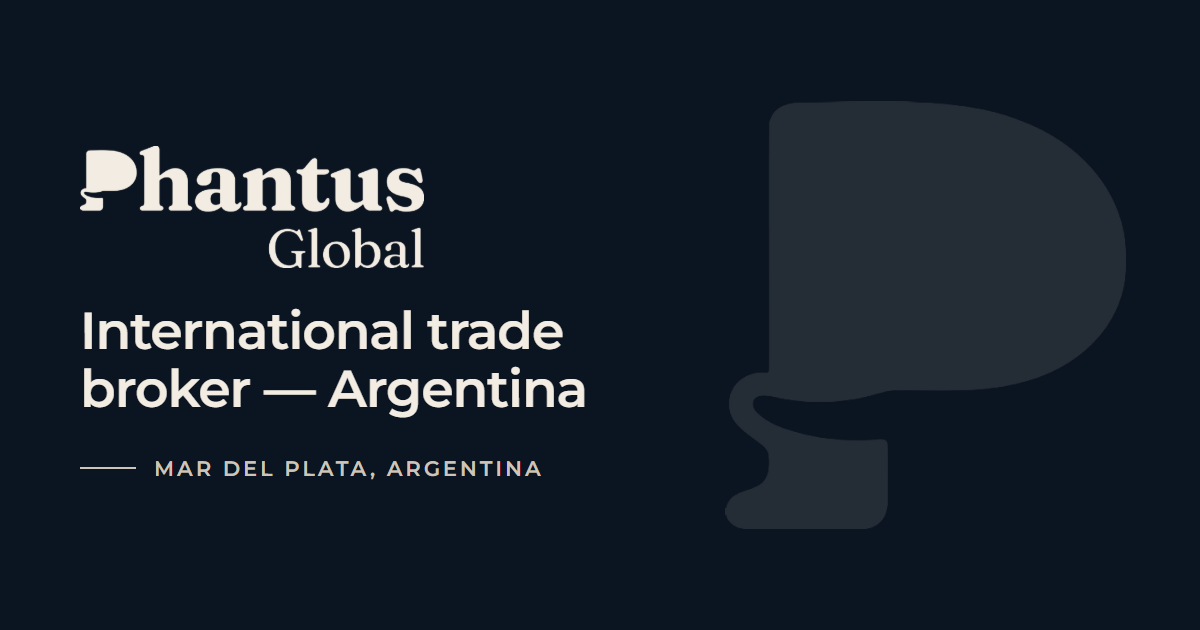
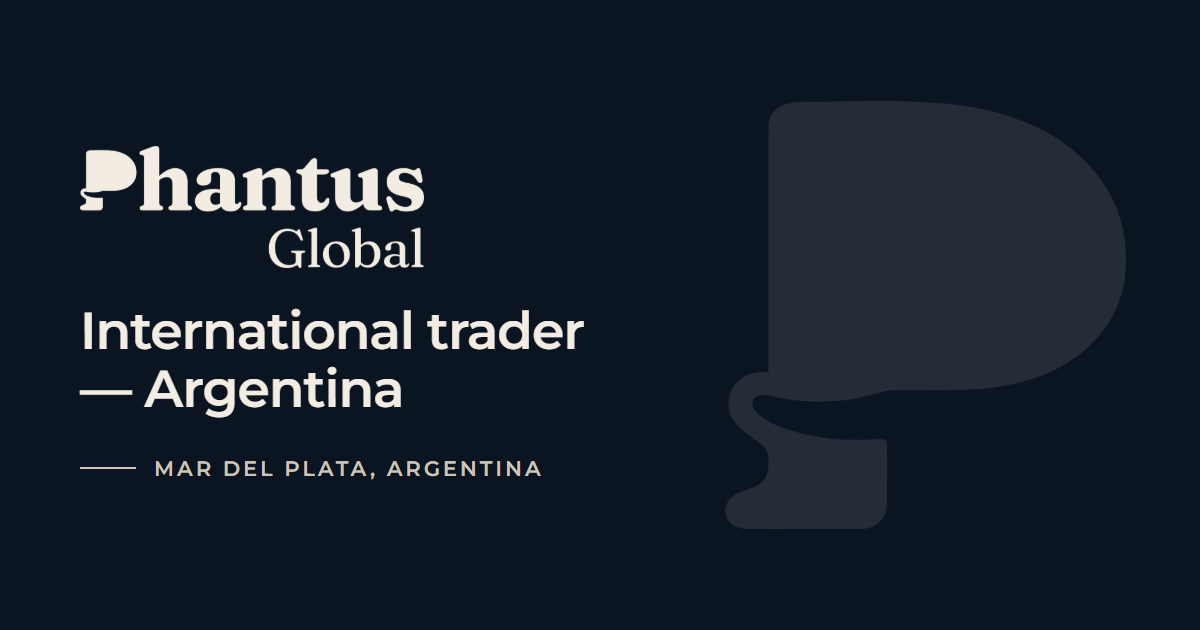
El sitio pasa de bróker a trader
Phantus compra y revende, y el pago pasa por la empresa. Se reescribe
todo el copy que afirmaba lo contrario: "no tomamos posesión", "el
dinero no pasa por nuestras manos", "el pago va directo entre las
partes" y la comisión. "Cómo ganamos" pasa a "Cómo operamos" y no dice
cómo gana. Imagen social regenerada con el rótulo nuevo.

Changed region(s): [[0.0617, 0.573, 0.4933, 0.6635], [0.4625, 0.5127, 0.4933, 0.5429], [0.3083, 0.3921, 0.3392, 0.4222]]

diff --git a/src/components/sections/ComoTrabajamos.tsx b/src/components/sections/ComoTrabajamos.tsx
@@ -5,10 +5,11 @@ import Section from '@/components/ui/Section';
 import SectionHeading from '@/components/ui/SectionHeading';
 import { PASOS } from '@/content/proceso';
 
-// Cómo se gana la plata no va en letra chica ni al pie de la página anterior:
-// es una sección propia, sobre azul y a media medida, con el rótulo arriba y
-// una sola frase abajo.
-const FONDO_COMISION = 'azul';
+// Cómo opera Phantus —compra y revende, una sola contraparte— no va en letra
+// chica: es una sección propia, sobre azul y a media medida, con el rótulo
+// arriba y una sola frase abajo. Fue "Cómo ganamos" mientras la empresa era
+// bróker y cobraba comisión; como trader, cómo gana no se publica.
+const FONDO_DEL_MODELO = 'azul';
 
 export default function ComoTrabajamos() {
   const t = useTranslations('comoTrabajamos');
@@ -39,9 +40,9 @@ export default function ComoTrabajamos() {
         </ol>
       </Section>
 
-      <Section fondo={FONDO_COMISION} medida="angosta">
-        <Eyebrow>{t('comisionEyebrow')}</Eyebrow>
-        <p className="mt-6 text-2xl sm:text-3xl">{t('comision')}</p>
+      <Section fondo={FONDO_DEL_MODELO} medida="angosta">
+        <Eyebrow>{t('modeloEyebrow')}</Eyebrow>
+        <p className="mt-6 text-2xl sm:text-3xl">{t('modelo')}</p>
       </Section>
     </>
   );

diff --git a/CLAUDE.md b/CLAUDE.md
@@ -2,7 +2,7 @@
 
 # Phantus Global
 
-Sitio institucional de **Phantus Global**, bróker de comercio internacional de
+Sitio institucional de **Phantus Global**, trader de comercio internacional de
 **pescado, mariscos, carne y pollo argentinos**, con origen en **Mar del Plata,
 Argentina**. **La estructura legal en Estados Unidos ya no se afirma**: estuvo
 como dato en `/nosotros` y como frase en `/mercados`, y el cliente pidió
@@ -23,11 +23,23 @@ organización.
 
 ## Qué hace la empresa
 
-Conecta exportadores argentinos con importadores del exterior y cobra comisión
-por la operación. **No toma posesión de la mercadería**: no compra, no almacena,
-no revende, no opera como planta. Y **tampoco toca el dinero**: el pago va
-directo entre exportador e importador. Eso cambia cómo se escribe todo el copy —
-no somos un exportador ni un trader, somos el nexo.
+**Es trader desde el 03/11, y antes era bróker.** Le compra la mercadería a los
+frigoríficos argentinos y se la vende al importador del exterior: **toma
+posesión**, y **el pago pasa por Phantus** —factura al importador y le paga al
+frigorífico—. Para el comprador eso es una sola contraparte, un solo contrato y
+una sola factura, y ése es el argumento que el copy usa donde antes decía
+"conectamos". **Cómo gana no se publica**, por pedido: el sitio no habla de
+margen ni de comisión. Sigue sin operar como planta.
+
+> **Hasta el 03/11 fue al revés y conviene saberlo al leer lo viejo.** Era
+> bróker: conectaba exportador e importador, cobraba comisión, no tomaba
+> posesión y el pago iba directo entre las partes, y el copy lo decía en una
+> docena de lugares —"el dinero no pasa por nuestras manos", "no tomamos
+> posesión de la mercadería"—. Se reescribieron todos; el bloque "Cómo ganamos"
+> de `/como-trabajamos` pasó a "Cómo operamos" (`comoTrabajamos.modelo*`). Las
+> notas de este archivo que razonan desde "no somos un exportador ni un
+> trader" —la restricción de que el hero no puede decir que exporta, por
+> ejemplo— **ya no valen**.
 
 Trabaja con una **red de frigoríficos argentinos habilitados por SENASA**,
 seleccionados por calidad y cumplimiento normativo. **Decía "exportadores" hasta
@@ -270,9 +282,11 @@ para entenderlo. Ahora la palabra *pescado* está en el titular.
   33 caracteres pasa a tres líneas a 1440 y cuatro a 375, y deja de leerse como
   titular. Ahí murió "Conectamos pescado argentino con el mundo", que era la más
   clara de todas porque suma el verbo del negocio.
-- **No pueden decir que exportan.** Phantus no toma posesión de la mercadería ni
-  toca el dinero. "De exportación" funciona porque **describe la mercadería y no
-  a la empresa**, igual que "calidad de exportación": es el término del rubro.
+- **No podían decir que exportan, y desde el 03/11 sí pueden.** Como bróker,
+  Phantus no tomaba posesión de la mercadería ni tocaba el dinero, así que
+  "exportamos" era falso; "de exportación" funcionaba porque **describe la
+  mercadería y no a la empresa**. Como trader compra y revende, y esa
+  restricción se cae: ya no descarta candidatos.
 - **No puede encerrarse en pescado.** Carnes es unidad de negocio, así que el
   titular dice "alimentos" y el rótulo de arriba nombra las dos —"Bróker de
   pescado, mariscos y carnes"—. Estuvo un rato en "pescado argentino de
